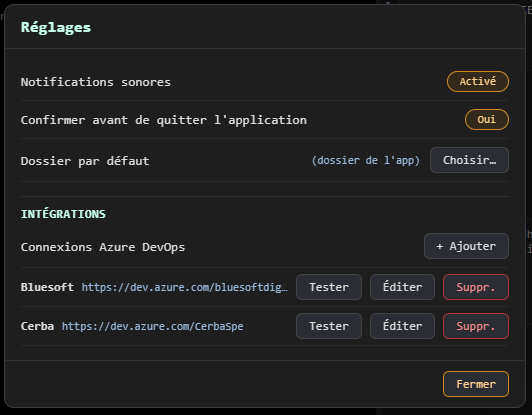
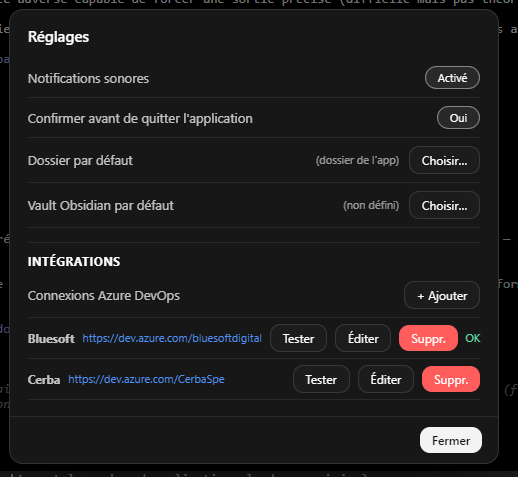
docs(readme): captures nouvelle UI + fonctionnalités refonte/lecteur
- Captures d'écran mises à jour avec la nouvelle interface + ajout d'une capture
  du lecteur Markdown (docs/screenshots/lecteur-markdown.png).
- README : ligne « Interface sombre épurée » (refonte), lecteur Markdown enrichi
  (arborescence filtrable, fichiers images & HTML), commande /dide-open,
  Find en cartes de messages, section capture « Lecteur Markdown ».

Changed region(s): [[0.0, 0.0, 1.0, 1.0], [0.5869, 0.3181, 0.7722, 0.347]]

diff --git a/README.md b/README.md
@@ -28,6 +28,9 @@ vite entre des dizaines de terminaux. DIFAI-IDE centralise tout dans une seule f
 
 ## Fonctionnalités
 
+- **Interface sombre épurée** — refonte visuelle façon Linear/Cursor : fil d'Ariane
+  (*groupe / élément actif*) en tête, sidebar à **couleurs de groupe** (carré coloré,
+  accent d'onglet actif, trait de rattachement), pastilles d'état, jeu d'icônes cohérent.
 - **Sessions Claude Code embarquées** — terminaux interactifs (xterm.js + node-pty),
   multi-projets, relancées automatiquement au démarrage pour les items épinglés.
 - **Groupes & onglets** — organisation par groupe, couleurs de groupe, épinglage,
@@ -47,13 +50,17 @@ vite entre des dizaines de terminaux. DIFAI-IDE centralise tout dans une seule f
   - **vue détail riche** d'une US ou d'une tâche : description, critères d'acceptation,
     story points, priorité, assigné, commentaires et **images** (rendu HTML assaini).
 - **Lecteur Markdown / Obsidian** (lecture seule) — ouvre un **vault** (dossier de `.md`,
-  avec arborescence) ou un **fichier** isolé, rendu propre : titres, tables, code coloré,
-  images, callouts, **wikilinks `[[…]]` cliquables**, embeds `![[…]]`, frontmatter masqué.
-  Liens internes navigables (historique avant/arrière), liens externes ouverts dans le
-  navigateur, **live-reload** quand le fichier change sur disque. Un *vault par défaut* peut
-  être mémorisé dans les Réglages. Les **chemins `.md` affichés dans le terminal sont
-  cliquables** : un clic ouvre le fichier dans un onglet Markdown (volet opposé), en réutilisant
-  l'onglet s'il est déjà ouvert.
+  avec arborescence **filtrable** via une barre de recherche) ou un **fichier** isolé, rendu
+  propre : titres, tables, code coloré, images, callouts, **wikilinks `[[…]]` cliquables**,
+  embeds `![[…]]`, frontmatter masqué. Gère aussi les fichiers **images** et **HTML**
+  (rendus en iframe sandboxée). Liens internes navigables (historique avant/arrière), liens
+  externes ouverts dans le navigateur, **live-reload** quand le fichier change sur disque. Un
+  *vault par défaut* peut être mémorisé dans les Réglages. Les **chemins `.md` affichés dans le
+  terminal sont cliquables** : un clic ouvre le fichier dans un onglet Markdown (volet opposé),
+  en réutilisant l'onglet s'il est déjà ouvert.
+- **Ouverture depuis une session** — la commande `/dide-open <chemin>` (skill Claude Code)
+  ouvre un fichier ou un dossier **en onglet dans le groupe de la session courante**
+  (note `.md`, image, HTML…), sans quitter l'IDE.
 - **Garde-fou `~/.claude.json`** — surveille ce fichier (que Claude Code écrit de façon non
   atomique) et restaure automatiquement la dernière version valide si des sessions
   parallèles le corrompent.
@@ -64,7 +71,14 @@ vite entre des dizaines de terminaux. DIFAI-IDE centralise tout dans une seule f
 ### Recherche dans le transcript (`Ctrl+F`)
 
 Voir la [vue d'ensemble](#difai-ide) ci-dessus : `Ctrl+F` sur une session ouvre un panneau de
-recherche dans l'historique de la conversation, avec surlignage et compteur d'occurrences.
+recherche dans l'historique de la conversation, présenté en **cartes de messages** (distinction
+« toi » / Claude), avec surlignage et compteur d'occurrences.
+
+### Lecteur Markdown / Obsidian
+
+![Lecteur Markdown](docs/screenshots/lecteur-markdown.png)
+
+*Ouverture d'un vault : **arborescence filtrable** à gauche (barre « Filtrer les notes… », dossiers ouverts/fermés) et rendu Markdown propre à droite (titres, code coloré, tables). Lecture seule avec live-reload ; gère aussi images et HTML.*
 
 ### Console des sous-agents
 
